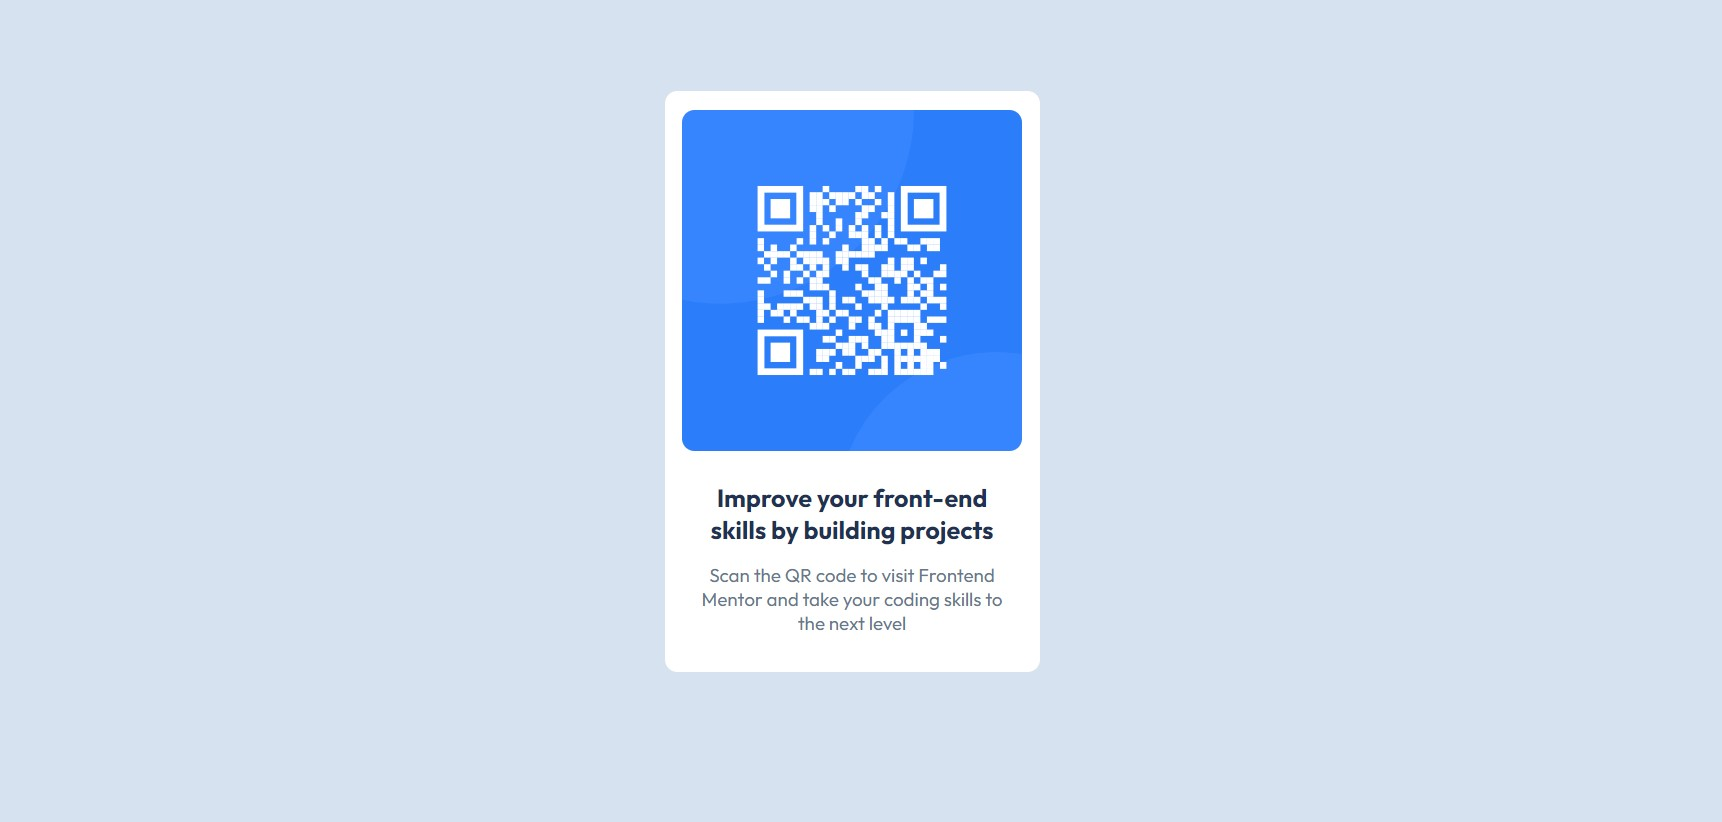
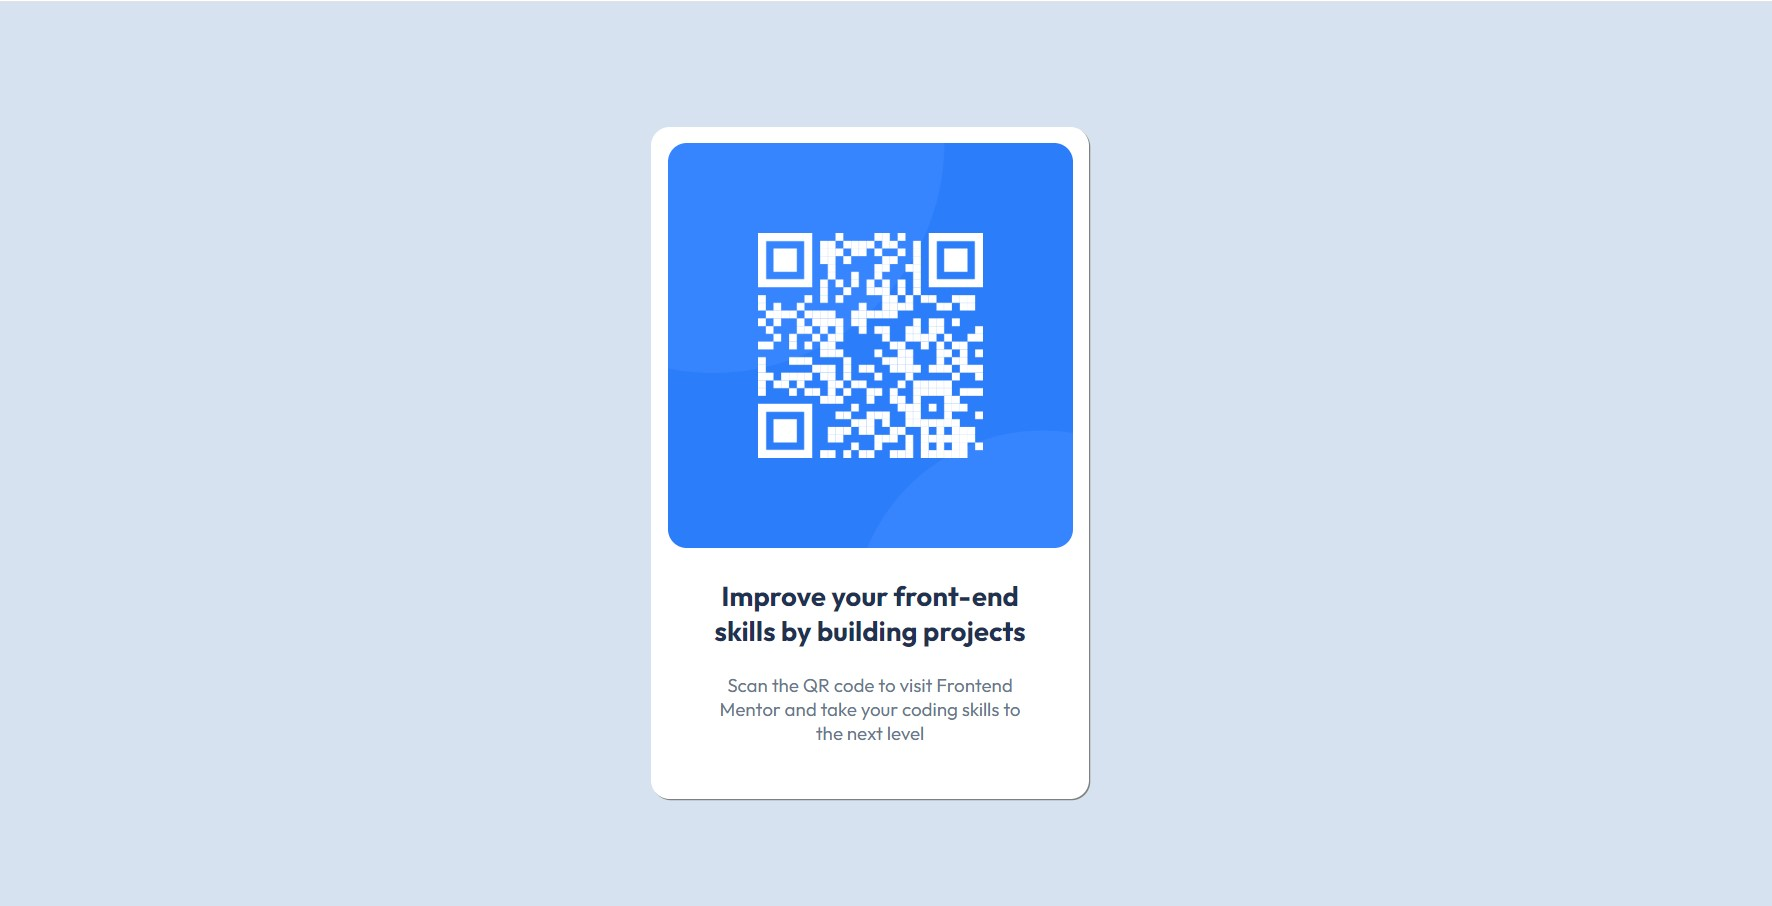
Updated whole project.

Changed region(s): [[0.3693, 0.0912, 0.6156, 0.882]]

diff --git a/styles.css b/styles.css
@@ -1,38 +1,45 @@
+*{
+    margin: 0;
+    padding: 0;
+}
+
 body{
     background-color:hsl(212, 45%, 89%);
-}
-.text-section{
-    width: 300px;
-    background-color: white;
-    margin: 100px auto;
-    border-radius: 10px;
     display: flex;
-    flex-direction: column;
+    height: 100vh;
     align-items: center;
+    
 }
-img{
-    width: 90.9%;
-    border-radius: 10px;
-    margin-top: 15px;
+.container{
+    width: 350px;
+    margin: 0 auto;
 }
-.heading{
+.card{
+    padding: 13px;
+    background-color: white;
+    border-radius: 15px;
+    box-shadow: 1px 1px gray;
+}
+
+.container img{
+    width: 100%;
+    border-radius: 15px;
+}
+.text{
+    text-align: center;
+    padding: 0 25px;
+}
+h1{
     color: hsl(218, 44%, 22%);
     font-family: "Outfit", sans-serif;
-    font-size: 20px;
+    font-size: 22px;
     font-weight: 700;
-    text-align: center;
-    padding: 0 8px;
-    width: 80%;
-    margin-top: 25px;
-
+    padding: 20px 0;
 }
-.paragraph{
-    color: hsl(216, 15%, 48%);
+p{
     font-family: "Outfit", sans-serif;
     font-size: 15px;
     font-weight: 400;
-    text-align: center;
-    margin-top: 0;
-    width: 85%;
-    margin-bottom: 30px;
+    padding:0 15px 30px;
+    color: hsl(216, 15%, 48%);
 }

diff --git a/index.html b/index.html
@@ -19,10 +19,16 @@
     <link rel="stylesheet" href="styles.css" />
   </head>
   <body>
-    <div class="text-section">
-      <img src="images/image-qr-code.png" alt="QR-Code" />
-      <h1 class="heading">Improve your front-end skills by building projects</h1>
-      <p class="paragraph">Scan the QR code to visit Frontend Mentor and take your coding skills to the next level</p>
-    </div>
+    <main class="container">
+      <div class="card">
+          <section class="image">
+            <img src="images/image-qr-code.png" alt="QR-CODE img">
+          </section>
+          <section class="text">
+            <h1>Improve your front-end skills by building projects</h1>
+            <p>Scan the QR code to visit Frontend Mentor and take your coding skills to the next level</p>
+          </section>
+      </div>
+  </main>
   </body>
 </html>

diff --git a/README.md b/README.md
@@ -24,10 +24,15 @@ Project Design of QR Code Component using HTML and CSS.
 
 ### Links
 
-- Solution URL: [http://127.0.0.1:5500/index.html](https://your-solution-url.com)
+- Solution URL: [http://127.0.0.1:5500/QR-Code-Component/index.html](https://your-solution-url.com)
 
 ## My process
-First I write HTML code, like i created div element and put two elements (h1 and p) inside it. And then i write CSS for that HTML file to style that HTML file.
+
+
+First I write HTML code, like i created one main section in which i created a div inside that div i created two sections, one for image and one for text.
+And after writing HTML code successfully i wrote CSS code for this project.
+
+
 ### Built with
 
 - Semantic HTML5 markup
@@ -43,17 +48,29 @@ I learned alot of things during this challenge but at the some part of code i fa
 below are code snippets on that part i faced difficulty
 
 ```html
-<h1 class="heading">Improve your front-end skills by building projects</h1>
-      <p class="paragraph">Scan the QR code to visit Frontend Mentor and take your coding skills to the next level</p>
+<section class="text">
+            <h1>Improve your front-end skills by building projects</h1>
+            <p>Scan the QR code to visit Frontend Mentor and take your coding skills to the next level</p>
+          </section>
 ```
 ```css
-.heading{
-  width:80%;
+.text{
+    text-align: center;
+    padding: 0 25px;
 }
-and
-
-.parapraph{
-  width:85%;
+h1{
+    color: hsl(218, 44%, 22%);
+    font-family: "Outfit", sans-serif;
+    font-size: 22px;
+    font-weight: 700;
+    padding: 20px 0;
+}
+p{
+    font-family: "Outfit", sans-serif;
+    font-size: 15px;
+    font-weight: 400;
+    padding:0 15px 30px;
+    color: hsl(216, 15%, 48%);
 }
 ```
 
